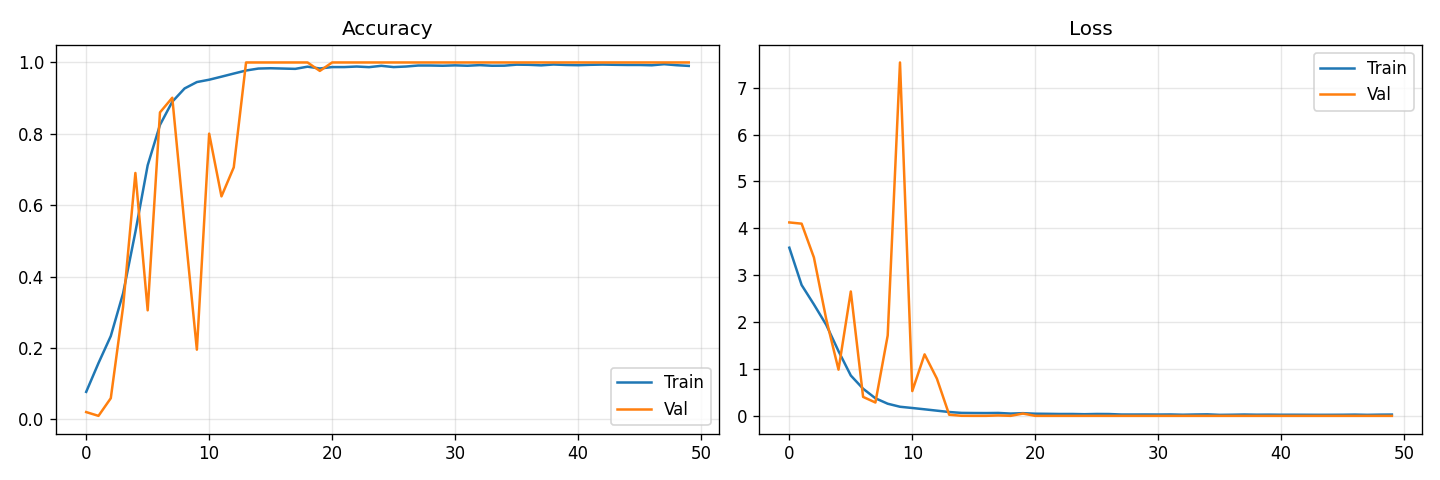
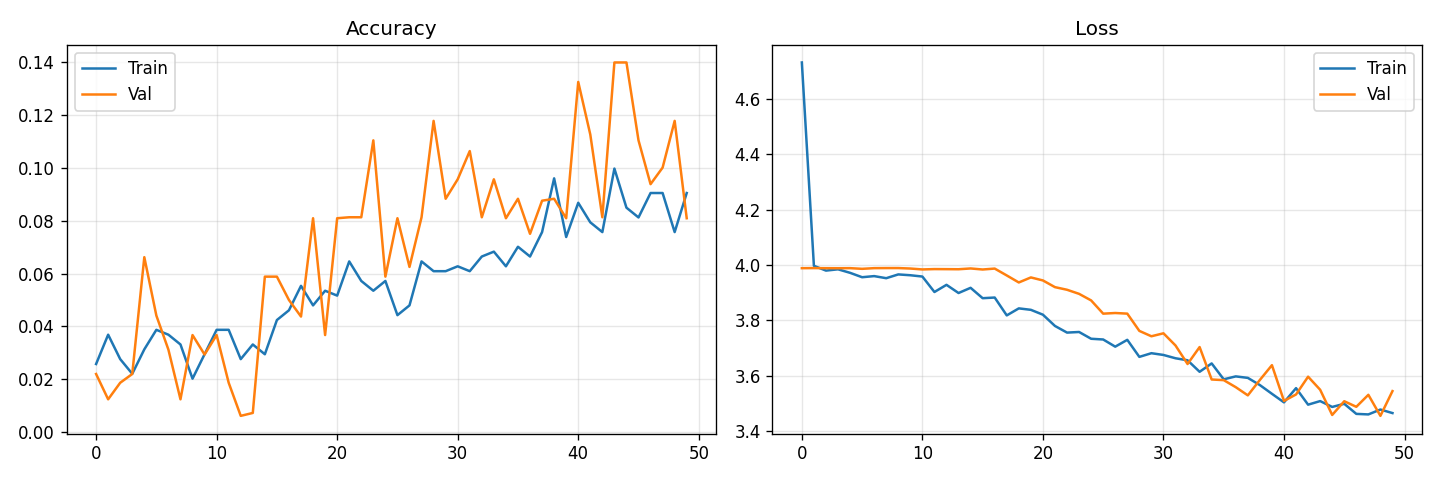
needs more data, but code is good

diff --git a/uno_train.py b/uno_train.py
@@ -1,4 +1,5 @@
 import json
+import os
 import numpy as np
 import cv2
 import matplotlib.pyplot as plt
@@ -28,50 +29,39 @@ def load_data(dataset_dir=cfg.DATASET_DIR):
         if os.path.isdir(os.path.join(dataset_dir, d))
     ])
 
-    if not class_folders:
-        raise RuntimeError(f"No sub-folders found in '{dataset_dir}'. "
-                           f"Each class should be its own folder.")
-
     print(f"[INFO] Found {len(class_folders)} classes: {class_folders}")
 
     for class_name in class_folders:
         class_path = os.path.join(dataset_dir, class_name)
+
         img_files = [
             f for f in os.listdir(class_path)
             if f.lower().endswith((".jpg", ".jpeg", ".png", ".bmp"))
         ]
-
-        if not img_files:
-            print(f"  [WARN] No images found in '{class_path}', skipping.")
-            continue
 
         for fname in img_files:
             fpath = os.path.join(class_path, fname)
             img = cv2.imread(fpath)
 
             if img is None:
-                print(f"  [WARN] Could not read '{fpath}', skipping.")
                 continue
 
-            # Resize to target size
-            img = cv2.resize(img, (target_w, target_h), interpolation=cv2.INTER_LANCZOS4)
-
-            # Convert BGR (OpenCV default) to RGB (what the model expects)
+            img = cv2.resize(img, (target_w, target_h))
             img = cv2.cvtColor(img, cv2.COLOR_BGR2RGB)
 
             images.append(img)
-            labels.append(class_name)  # folder name is the label e.g. "Blue_0"
+            labels.append(class_name)
 
     print(f"[INFO] Loaded {len(images)} images total.")
 
-    X = np.array(images, dtype=np.float32) / 255.0  # normalise to [0, 1]
+    X = np.array(images, dtype=np.float32) / 255.0
 
-    # Encode string labels to integers
     le = LabelEncoder()
     y = le.fit_transform(labels)
     label_names = list(le.classes_)
 
-    print(f"[INFO] Classes ({len(label_names)}): {label_names}")
+    print(f"[INFO] Classes: {label_names}")
+
     return X, y, label_names
 
 
@@ -79,12 +69,18 @@ def load_data(dataset_dir=cfg.DATASET_DIR):
 def augment_batch(X_batch):
     aug = []
     for img in X_batch:
+        # brightness
         delta = np.random.uniform(-0.15, 0.15)
         img = np.clip(img + delta, 0.0, 1.0)
-        angle = np.random.uniform(-12, 12)
+        # rotation
+        angle = np.random.uniform(-5, 5)
         h, w = img.shape[:2]
         M = cv2.getRotationMatrix2D((w / 2, h / 2), angle, 1.0)
         img = cv2.warpAffine(img, M, (w, h))
+        # zoom
+        scale = np.random.uniform(0.95, 1.05)
+        M2 = cv2.getRotationMatrix2D((w / 2, h / 2), 0, scale)
+        img = cv2.warpAffine(img, M2, (w, h))
         aug.append(img)
     return np.array(aug, dtype=np.float32)
 
@@ -118,7 +114,7 @@ def train(dataset_dir=cfg.DATASET_DIR):
         X, y,
         test_size=cfg.VAL_SPLIT,
         random_state=42,
-        stratify=y,
+        stratify=y
     )
     print(f"[INFO] Train: {len(X_train)}  Val: {len(X_val)}")
 
@@ -158,7 +154,9 @@ def train(dataset_dir=cfg.DATASET_DIR):
     # Classification report
     print("\n[INFO] Evaluating on validation set...")
     y_pred = np.argmax(model.predict(X_val, verbose=0), axis=1)
-    print(classification_report(y_val, y_pred, target_names=label_names))
+    present_labels = np.unique(y_val)
+    present_names = [label_names[i] for i in present_labels]
+    print(classification_report(y_val, y_pred, labels=present_labels, target_names=present_names))
 
     # Training curves
     plt.figure(figsize=(12, 4))

diff --git a/uno_model.py b/uno_model.py
@@ -1,44 +1,32 @@
-from tensorflow.keras import layers, Model
-
-def build_model(num_classes: int, img_size=(128, 128)) -> Model:
-    inputs = layers.Input(shape=(*img_size, 3), name="input")
-
-    # Block 1 -> Learns low-level features: edges, color regions
-    x = layers.Conv2D(32, (3, 3), padding="same", name="conv1")(inputs)
-    x = layers.BatchNormalization(name="bn1")(x)
-    x = layers.Activation("relu", name="relu1")(x)
-    x = layers.MaxPooling2D((2, 2), name="pool1")(x)
-
-    # Block 2 -> Learns mid-level features: digit strokes, card borders
-    x = layers.Conv2D(64, (3, 3), padding="same", name="conv2")(x)
-    x = layers.BatchNormalization(name="bn2")(x)
-    x = layers.Activation("relu", name="relu2")(x)
-    x = layers.MaxPooling2D((2, 2), name="pool2")(x)
-
-    # Block 3 -> Learns higher features: number shapes, Skip/Reverse symbols
-    x = layers.Conv2D(128, (3, 3), padding="same", name="conv3")(x)
-    x = layers.BatchNormalization(name="bn3")(x)
-    x = layers.Activation("relu", name="relu3")(x)
-    x = layers.MaxPooling2D((2, 2), name="pool3")(x)
-
-    # Block 4 -> Combines features into full card representations
-    x = layers.Conv2D(256, (3, 3), padding="same", name="conv4")(x)
-    x = layers.BatchNormalization(name="bn4")(x)
-    x = layers.Activation("relu", name="relu4")(x)
-    x = layers.MaxPooling2D((2, 2), name="pool4")(x)
-
-    # Classification head
-    x = layers.GlobalAveragePooling2D(name="gap")(x)
-    x = layers.Dense(128, activation="relu", name="dense1")(x)
-    x = layers.Dropout(0.5, name="dropout")(x)
-    outputs = layers.Dense(num_classes, activation="softmax", name="predictions")(x)
-
-    return Model(inputs=inputs, outputs=outputs, name="UNO_CNN")
+import tensorflow as tf
+from tensorflow.keras import layers, models
 
 
-if __name__ == "__main__":
-    model = build_model(num_classes=54)
-    model.summary(line_length=80)
+def build_model(num_classes, img_size):
+    h, w = img_size
 
+    inputs = layers.Input(shape=(h, w, 3))
 
+    x = layers.Conv2D(32, (3, 3), padding="same", activation="relu")(inputs)
+    x = layers.BatchNormalization()(x)
+    x = layers.Conv2D(32, (3, 3), activation="relu")(x)
+    x = layers.MaxPooling2D()(x)
 
+    x = layers.Conv2D(64, (3, 3), padding="same", activation="relu")(x)
+    x = layers.BatchNormalization()(x)
+    x = layers.Conv2D(64, (3, 3), activation="relu")(x)
+    x = layers.MaxPooling2D()(x)
+
+    x = layers.Conv2D(128, (3, 3), padding="same", activation="relu")(x)
+    x = layers.BatchNormalization()(x)
+    x = layers.Conv2D(128, (3, 3), activation="relu")(x)
+    x = layers.MaxPooling2D()(x)
+
+    x = layers.Flatten()(x)
+    x = layers.Dense(256, activation="relu")(x)
+    x = layers.Dropout(0.5)(x)
+
+    outputs = layers.Dense(num_classes, activation="softmax")(x)
+
+    model = models.Model(inputs, outputs)
+    return model

diff --git a/uno_config.py b/uno_config.py
@@ -12,7 +12,7 @@ IMG_SIZE = (128, 128)  # (height, width) -- must match uno_model.py default
 EPOCHS = 50
 BATCH_SIZE = 32
 VAL_SPLIT = 0.2
-LEARNING_RATE = 1e-3
+LEARNING_RATE = 1e-4
 
 # CAMERA SETTINGS
 CAMERA_ID = 0
